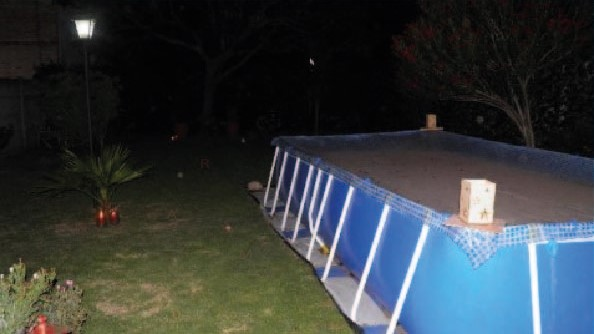
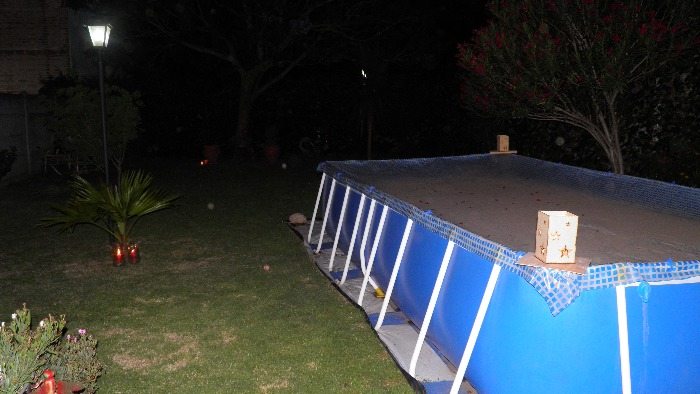
Mejor resolución de imágenes y pistas terminadas y mejoradas :D

diff --git a/Models/Escape.cs b/Models/Escape.cs
@@ -2,7 +2,7 @@ using Microsoft.AspNetCore.Mvc.ViewFeatures.Buffers;
 
 class Escape
 {
-    static private string[] incognitasSalas { get; set; } = { "0", "10", "izquierda", "ramo", "almohada", "rojo", "piratas", "para elisa", "fuego" };
+    static private string[] incognitasSalas { get; set; } = { "0", "10", "izquierda", "ramo", "almohadón", "rojo", "piratas", "para elisa", "fuego" };
     static private int estadoJuego { get; set; } = 1;
     static private int contadorIntentos { get; set; } = 0;
     static private int contadorIntentosHabitacion { get; set; } = 0;
